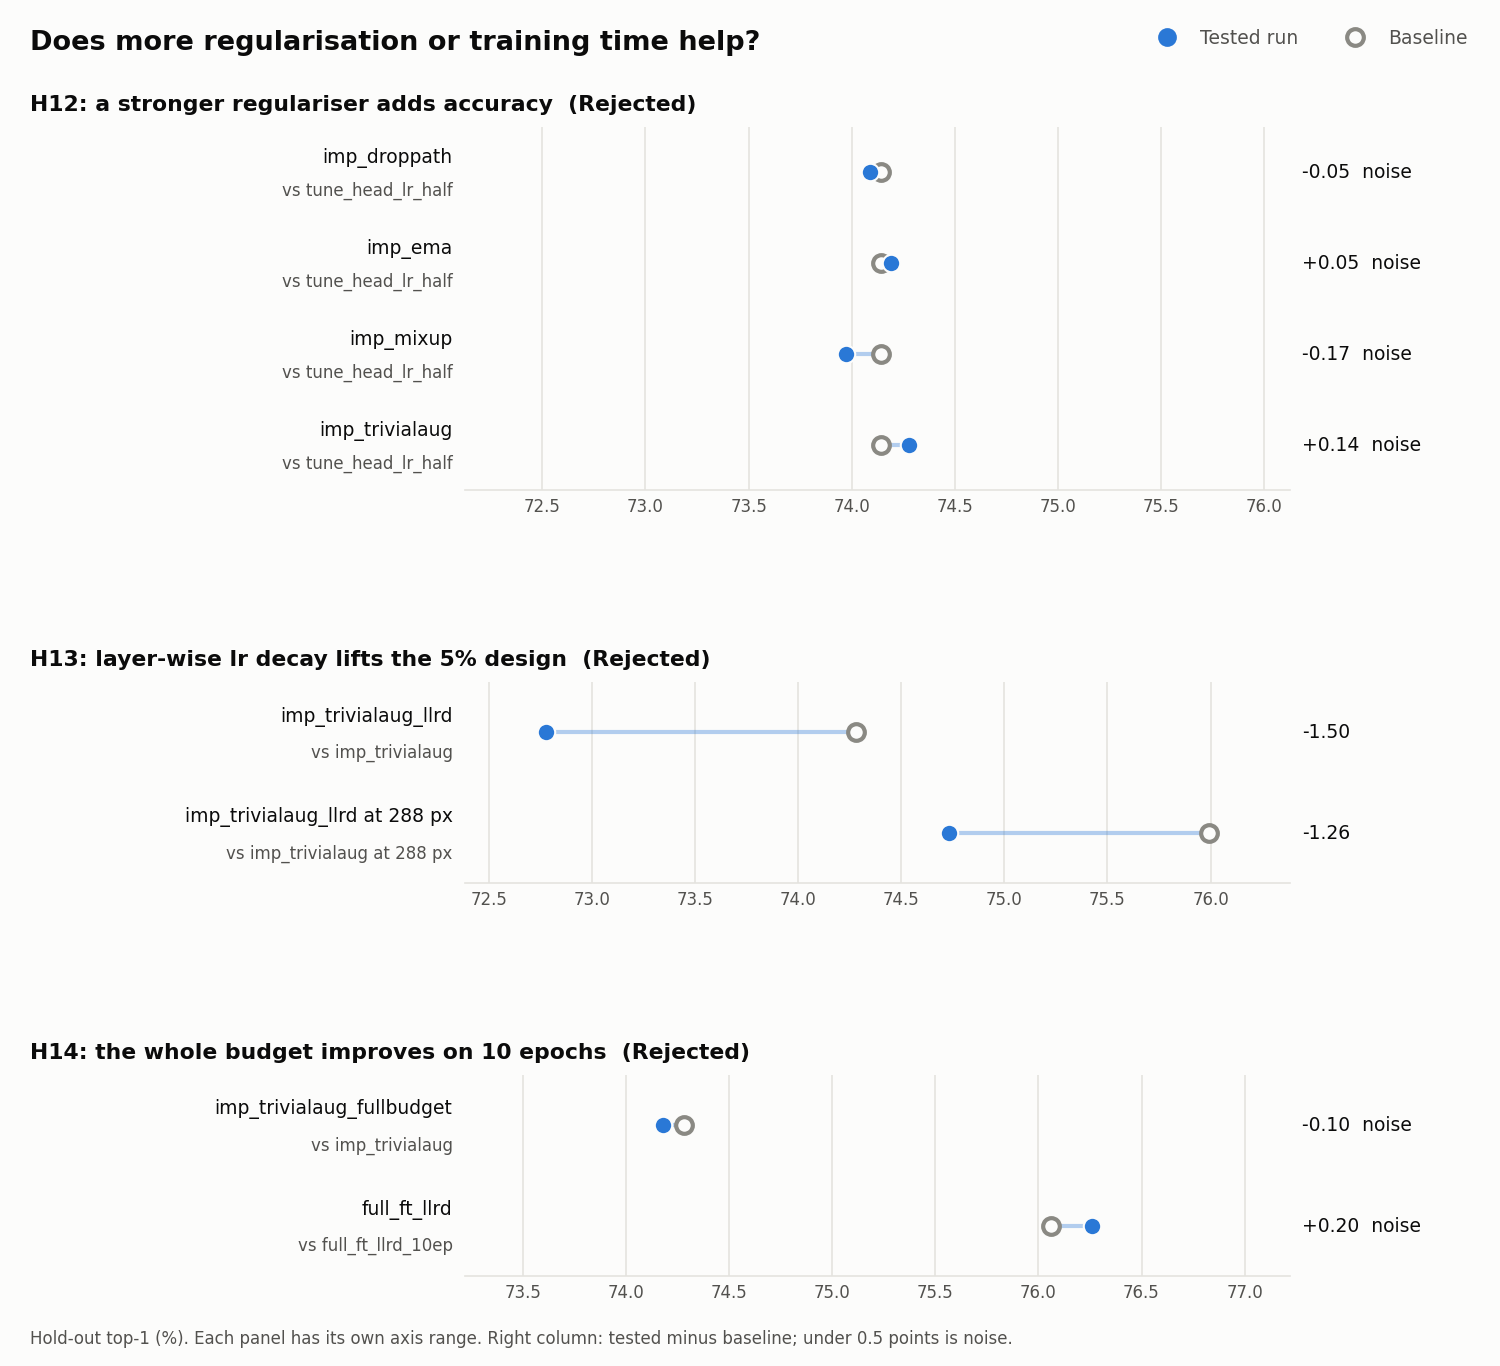
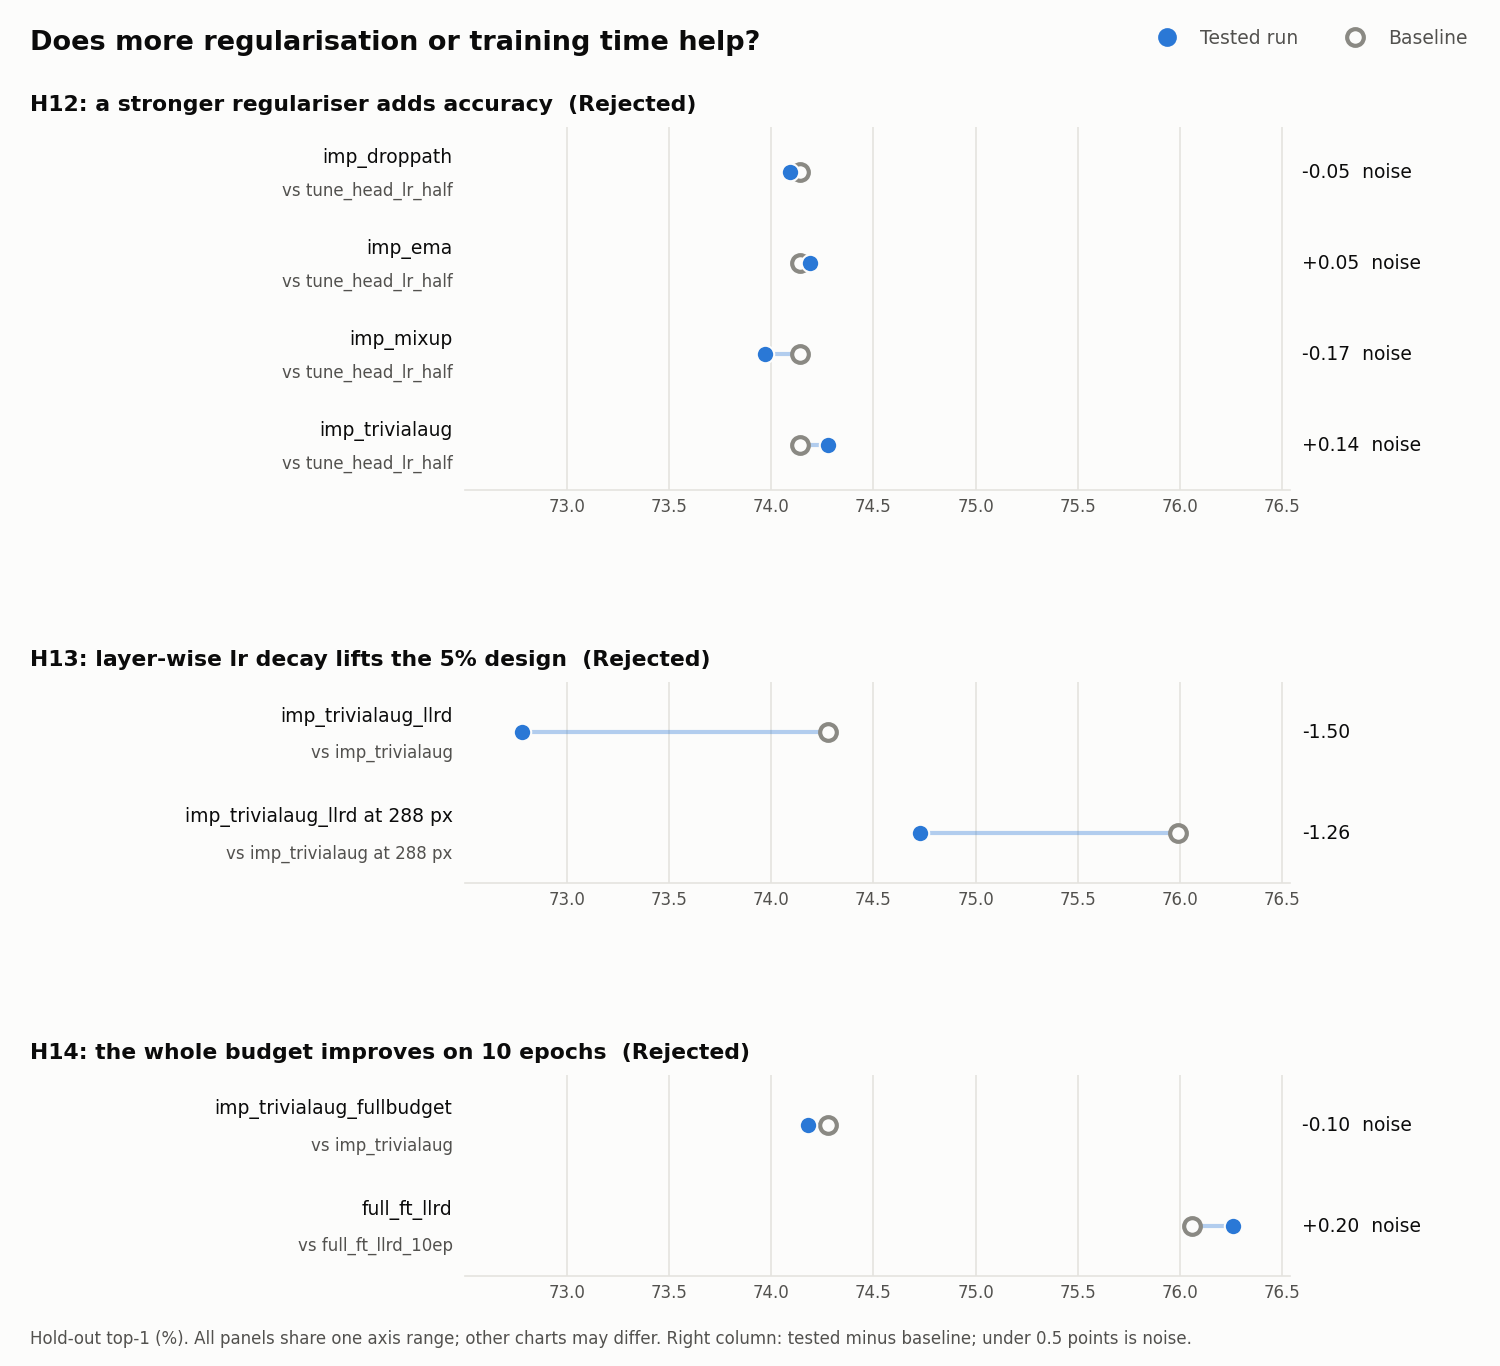
Hypothesis charts: one shared axis range per chart

diff --git a/results/plot_hypotheses.py b/results/plot_hypotheses.py
@@ -80,10 +80,16 @@ def delta_label(d):
     return f"{d:+.2f}{tag}"
 
 
-def panel(ax, title, verdict, rows):
-    lo, hi = min(min(r[1], r[3]) for r in rows), max(max(r[1], r[3]) for r in rows)
+def x_range(panels):
+    """-> the axis range shared by every panel of one chart."""
+    scores = [s for p in panels for r in p[2] for s in (r[1], r[3])]
+    lo, hi = min(scores), max(scores)
     pad = max((4 - (hi - lo)) / 2, 0.08 * (hi - lo))
-    ax.set_xlim(lo - pad, hi + pad)
+    return lo - pad, hi + pad
+
+
+def panel(ax, title, verdict, rows, xlim):
+    ax.set_xlim(*xlim)
     ax.set_ylim(len(rows) - 0.5, -0.5)
     for y, (run, score, base, base_score) in enumerate(rows):
         ax.plot([base_score, score], [y, y], color=TESTED, lw=2, alpha=0.35, zorder=1, solid_capstyle="butt")
@@ -110,13 +116,13 @@ def main():
         fig, axes = plt.subplots(len(panels), 1, figsize=(10, sum(heights) + 0.75 * len(panels) + 1.0), gridspec_kw={"height_ratios": heights}, facecolor=SURFACE)
         h = fig.get_figheight()
         for ax, (title, verdict, rows) in zip(axes, panels):
-            panel(ax, title, verdict, rows)
+            panel(ax, title, verdict, rows, x_range(panels))
         fig.subplots_adjust(left=0.31, right=0.86, top=1 - 0.85 / h, bottom=0.6 / h, hspace=0.75)
         fig.suptitle(heading, x=0.02, ha="left", fontsize=13, color=INK, fontweight="bold", y=1 - 0.2 / h)
         fig.legend(handles=[Line2D([], [], marker="o", ls="", ms=8, color=TESTED, label="Tested run"),
                             Line2D([], [], marker="o", ls="", ms=8, markerfacecolor=SURFACE, markeredgecolor=BASE, markeredgewidth=2, label="Baseline")],
                    loc="upper right", ncol=2, frameon=False, fontsize=9, labelcolor=MUTED, bbox_to_anchor=(0.99, 1 - 0.08 / h))
-        fig.text(0.02, 0.15 / h, "Hold-out top-1 (%). Each panel has its own axis range. Right column: tested minus baseline; under 0.5 points is noise.", fontsize=8, color=MUTED)
+        fig.text(0.02, 0.15 / h, "Hold-out top-1 (%). All panels share one axis range; other charts may differ. Right column: tested minus baseline; under 0.5 points is noise.", fontsize=8, color=MUTED)
         fig.savefig(f"{OUT}/{name}.png", dpi=150, facecolor=SURFACE)
         plt.close(fig)
 
